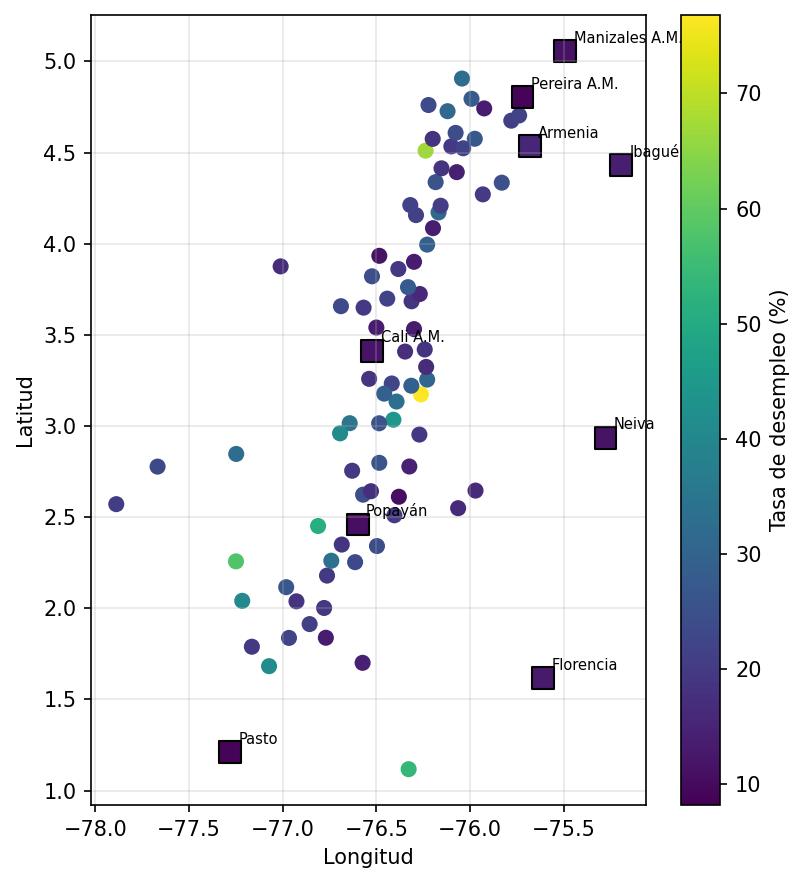
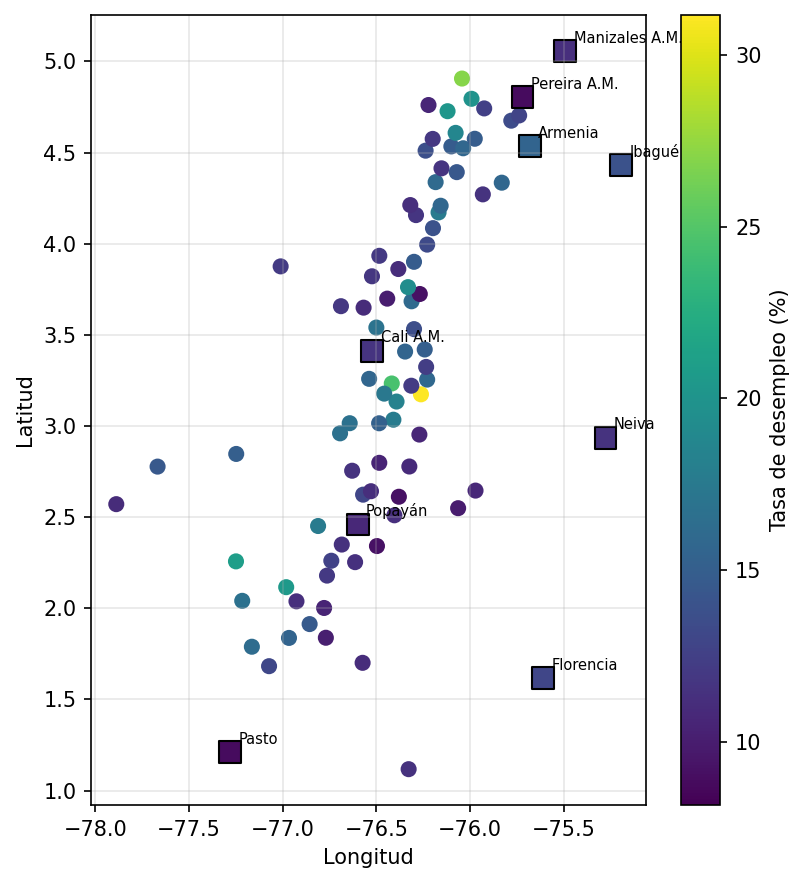
Regenera las figuras fhe_* de docs/img con el volumen de figuras del modelo (R-44)

diff --git a/docs/fay_herriot_espacial.md b/docs/fay_herriot_espacial.md
@@ -14,11 +14,11 @@ objetivo. Las tres tareas (`fay_herriot`, `sensibilidad_varianza`, `fay_herriot_
 anterior del documento describía la corrida previa al bloque 05 de la revisión (R-12 a R-16, R-42, R-43,
 R-45) y al bloque 04 (R-01, R-02, R-05, R-07); ver «Qué cambió frente al cierre anterior».
 
-> **Figuras.** Las cuatro imágenes de `docs/img/` (`fhe_perfil_rho`, `fhe_validacion`, `fhe_mapa_clasico`,
-> `fhe_mapa_espacial`) son de la corrida anterior y **no se regeneraron**: el volumen
-> `/Volumes/tesis/modelo/figuras` (R-45) no existe en el workspace, así que el notebook mostró las figuras
-> pero no las guardó. Hay que crear el volumen y volver a correr el notebook para actualizarlas. Las tablas
-> de este documento sí son de la corrida nueva y mandan sobre lo que muestran esas imágenes.
+> **Figuras.** Las cinco imágenes de `docs/img/` (`fhe_perfil_rho`, `fhe_validacion`, `fhe_mapa_clasico`,
+> `fhe_mapa_espacial`, `fhe_mapa_residuos`) se regeneraron con una segunda corrida de la tarea
+> `fay_herriot_espacial` (2026-10-27, tras crear el volumen `/Volumes/tesis/modelo/figuras`), que dio las
+> mismas cifras que la primera (ρ̂ = 0.3724, RMSE 2.5243 y 2.3464, 21 objetivos que extrapolan). Las
+> figuras del clásico (`fh_*`) se guardarán en el mismo volumen la próxima vez que corra `fay_herriot`.
 
 > **Qué implementa el código actual** (bloque 05 de la revisión): (R-14) Cali y Yumbo no son nodos de W sino
 > subáreas del nodo «Cali A.M.» con benchmarking de nivel 2, y se predicen los mismos 83 municipios del
@@ -250,6 +250,8 @@ estandarización (R-12), tienen I entre −0.115 y −0.038 y p entre 0.52 y 0.9
 `completa`). Con n = 23 la potencia es baja: un Moran no significativo no demuestra independencia, solo
 que los datos no la contradicen.
 
+![Mapa de residuos estandarizados: clásico y SEBLUP](img/fhe_mapa_residuos.png)
+
 ### 6.3 SEBLUP frente al clásico (`fhe_comparacion_modelos`)
 
 Clásico: Â = 5.529, AIC = 108.90.
@@ -288,7 +290,7 @@ corte del intervalo al 95 %) y el intervalo de verosimilitud perfilada cubre cas
 `inversa1` llega al límite inferior de la rejilla (−0.9). Con 23 dominios dispersos los datos no informan
 sobre la autocorrelación espacial.
 
-![Perfil de ρ (corrida anterior)](img/fhe_perfil_rho.png)
+![Perfil de ρ](img/fhe_perfil_rho.png)
 
 ### 6.5 Validación dejar-un-dominio-fuera (`fhe_validacion_cruzada_metricas`)
 
@@ -312,7 +314,7 @@ llegan a 0.24 pp (`inversa2`, espacial con efecto) y −0.25 pp (`inversa1`, sin
 corregido por el ruido de la estimación directa lleva a la misma lectura (clásico 2.506; espacial con
 efecto 2.327-2.843).
 
-![Validación (corrida anterior)](img/fhe_validacion.png)
+![Validación](img/fhe_validacion.png)
 
 ### 6.5b Cuadro comparativo del objetivo 1 (`fhe_cuadro_comparativo`)
 
@@ -356,11 +358,10 @@ nodos de W con MSE bootstrap y 2 subáreas (Cali y Yumbo, R-14) que se predicen 
 Las dos mayores diferencias entre predictores (2.7-2.8 pp) son Cali y Yumbo, que heredan el efecto del
 nodo «Cali A.M.»; en los 81 nodos restantes la diferencia es menor a 0.8 pp. Los β̂ del espacial son casi
 los del clásico (`TASA_HOMICIDIOS` 0.1017 frente a 0.0993; diferencia de 0.07 errores estándar,
-`fhe_coeficientes_comparacion`), así que las dos predicciones son muy parecidas. Los mapas de la corrida
-anterior (82 objetivos) ya no coinciden con esta tabla:
+`fhe_coeficientes_comparacion`), así que las dos predicciones son muy parecidas. Mapas de la tasa predicha:
 
-![Mapa espacial (corrida anterior)](img/fhe_mapa_espacial.png)
-![Mapa clásico (corrida anterior)](img/fhe_mapa_clasico.png)
+![Mapa espacial](img/fhe_mapa_espacial.png)
+![Mapa clásico](img/fhe_mapa_clasico.png)
 
 ### 6.7 Sensibilidad al centroide del A.M. (`fhe_sensibilidad_centroide`, R-42)
 
@@ -414,7 +415,6 @@ del intercepto de a lo más 0.21.
 - El ΔAIC ≤ 2, el AICc y la prueba LRT de ρ = 0 son convenciones estadísticas generales; no aparecen en
   el libro de referencia ni en los artículos espaciales consultados, que comparan por simulación (sesgo y
   MSE) o con AIC/BIC según el caso, y deben citarse con fuentes externas.
-- Las figuras de `docs/img/` no corresponden a esta corrida (ver el aviso al inicio).
 
 ## 9. Cómo reproducir
 

diff --git a/CLAUDE.md b/CLAUDE.md
@@ -467,8 +467,8 @@ clásico 2.524 frente a 2.346 (`knn3`), 2.590, 2.602 y 2.859 del espacial con ef
 respaldo en la verosimilitud. El efecto espacial en los 81 nodos objetivo es pequeño (media absoluta
 0.13 pp; −2.84 pp en Cali y Yumbo) y 21 de 83 objetivos extrapolan. El modelo recomendado sigue siendo el
 clásico (benchmark); detalle, tablas, comparación con el cierre anterior y limitaciones en
-`docs/fay_herriot_espacial.md`. Las figuras de `docs/img/` son de la corrida anterior: el volumen
-`/Volumes/tesis/modelo/figuras` no existe en el workspace, así que no se guardaron las nuevas. Ojo: en
+`docs/fay_herriot_espacial.md`. Las figuras `fhe_*` de `docs/img/` se regeneraron con esa corrida (el volumen
+`/Volumes/tesis/modelo/figuras` ya existe). Ojo: en
 `municipios_sin_encuesta` figura Cali (76001), que ya es dominio con encuesta; desde R-14 el notebook
 espacial no la excluye: Cali y Yumbo son subáreas del nodo Cali A.M. `marca_extrapolacion` (B20) recibe la
 matriz de diseño de los objetivos (`X_obj`), no `x'Cov(β̂)x`.
